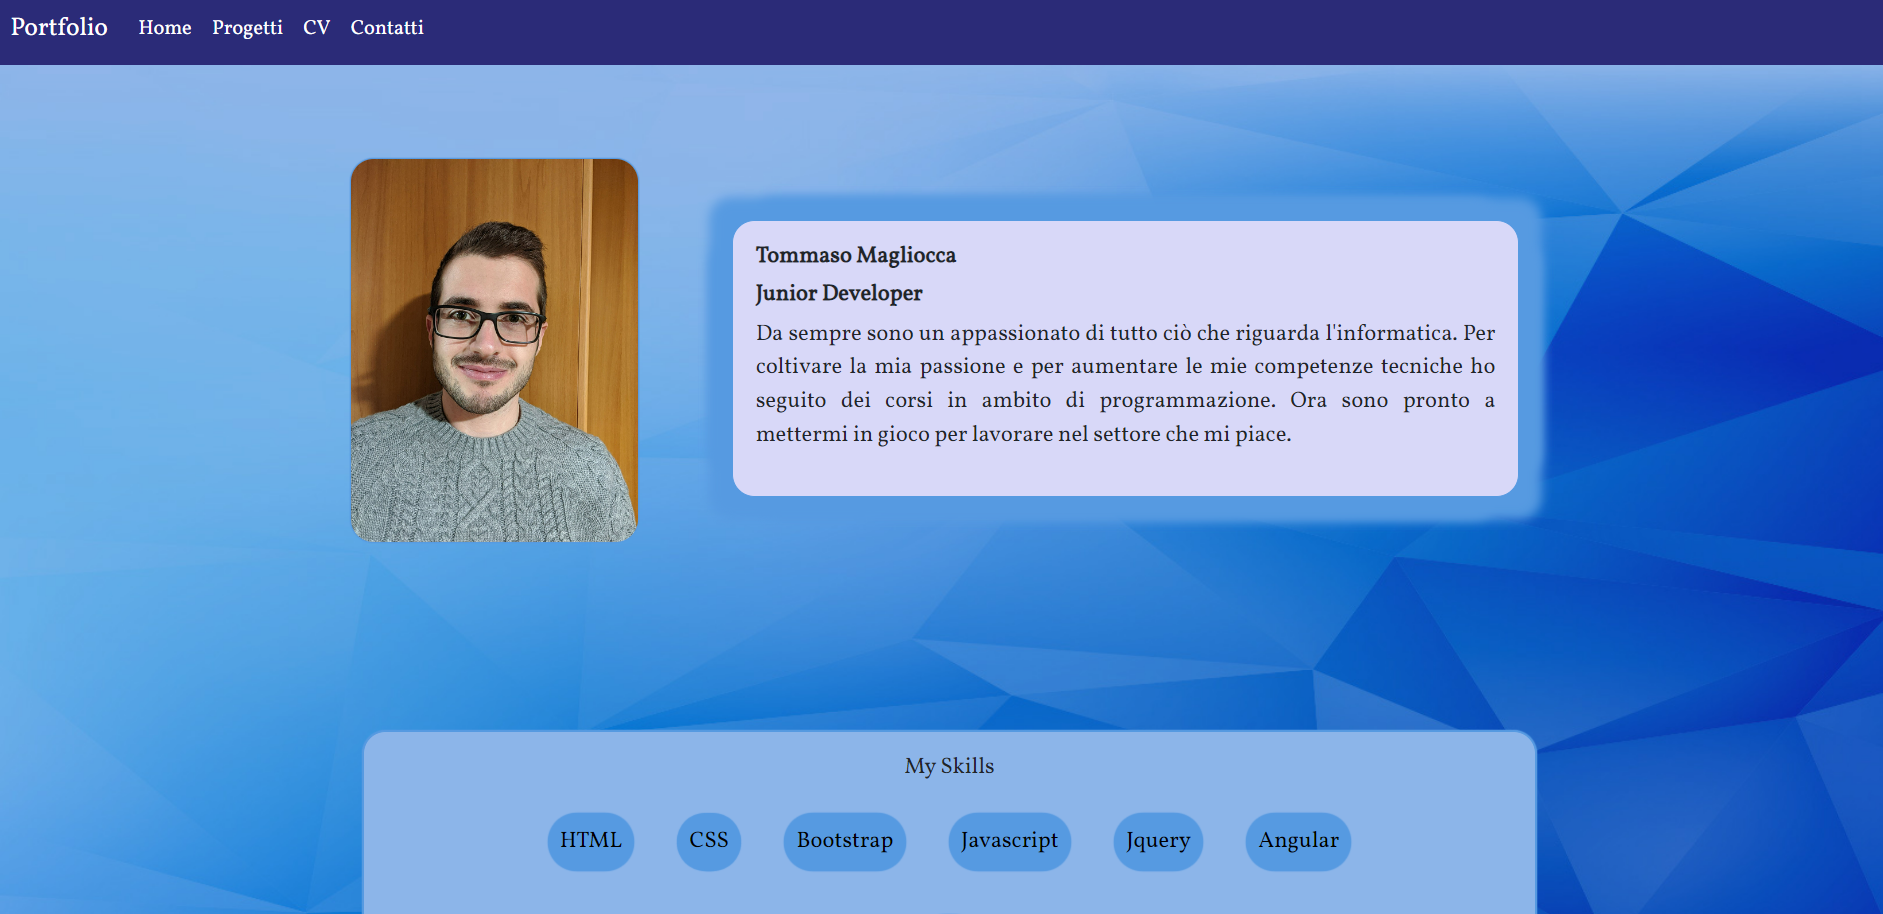
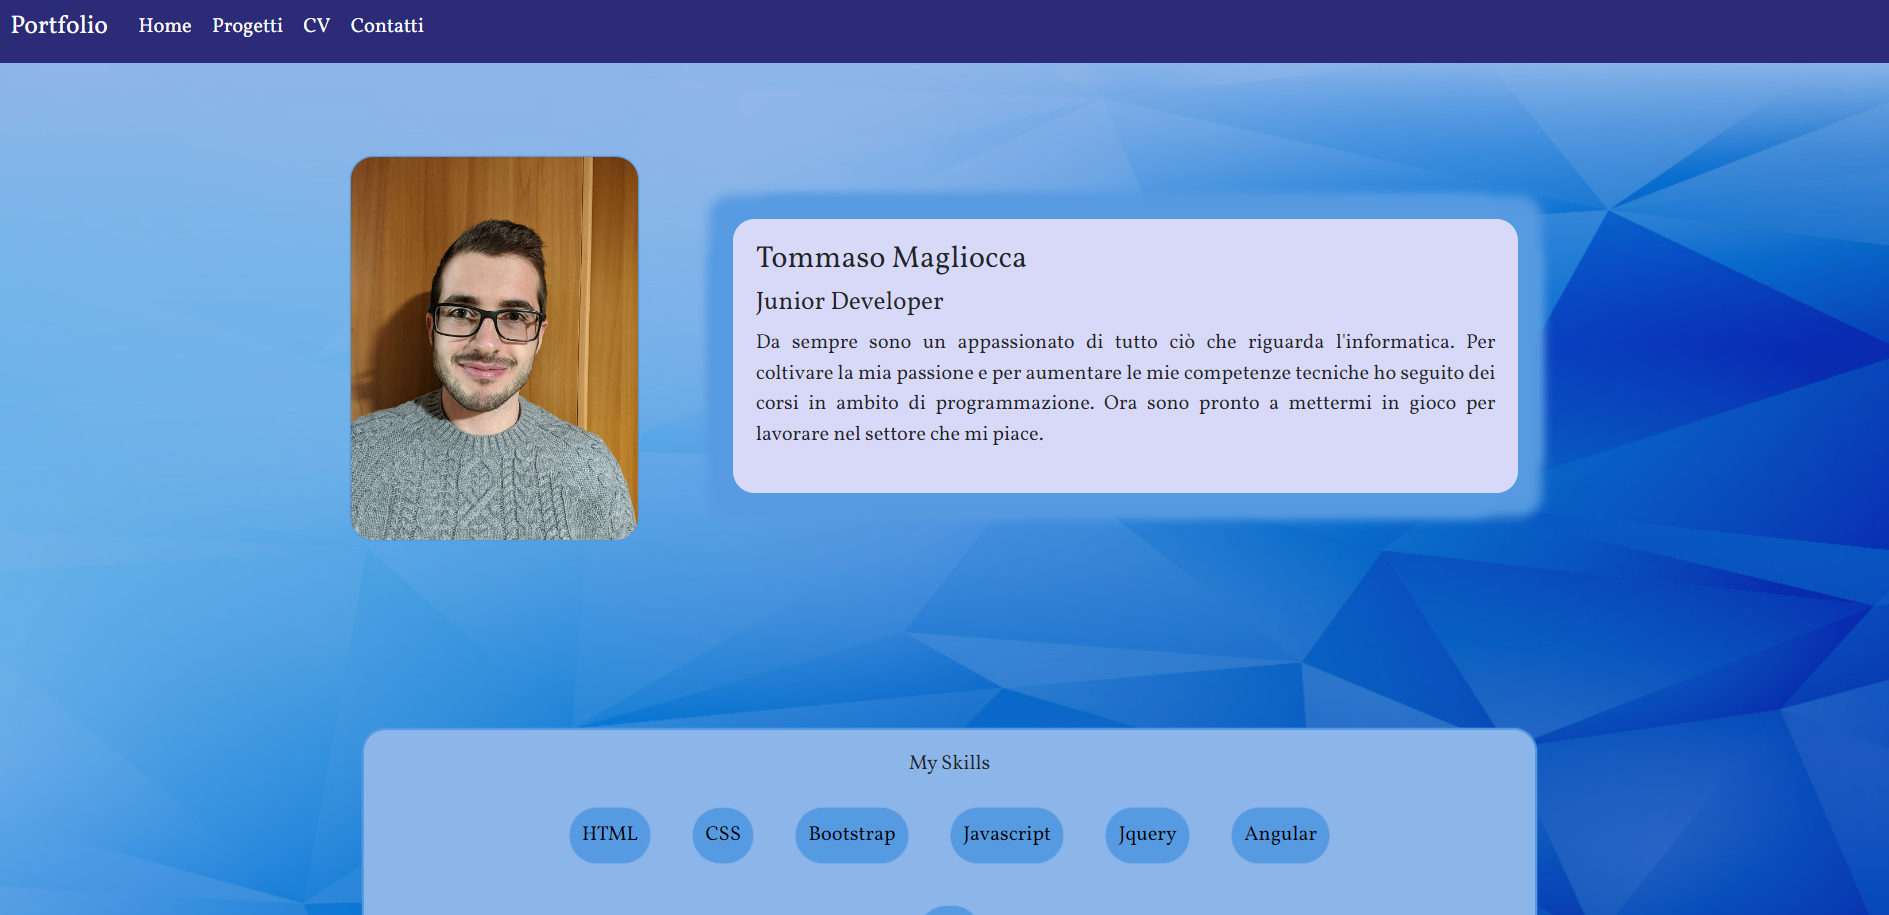
Aggiornamento
Aggiornata grandezza nome e titolo in home

diff --git a/src/app/pages/home/home.component.html b/src/app/pages/home/home.component.html
@@ -3,8 +3,8 @@
     <div class="col-1"></div>
     <img class="col-12 col-xs-12 col-md-5" src="../../../assets/img/webapp-lista/foto cv.jpg" alt="foto profilo" id="fotoProfilo">
     <div class="col-12 col-xs-12 col-md-5" id="contenitoreTesto">
-    <h5 class="titolo"><strong>{{ titolo }}</strong></h5>
-    <h6 class="titolo"><strong>{{ ruolo }}</strong></h6>
+    <h4 class="titolo">{{ titolo }}</h4>
+    <h5 class="titolo">{{ ruolo }}</h5>
     <p id="paragrafo">{{ paragrafo }}</p>
     </div>
     <div class="col-1"></div>
